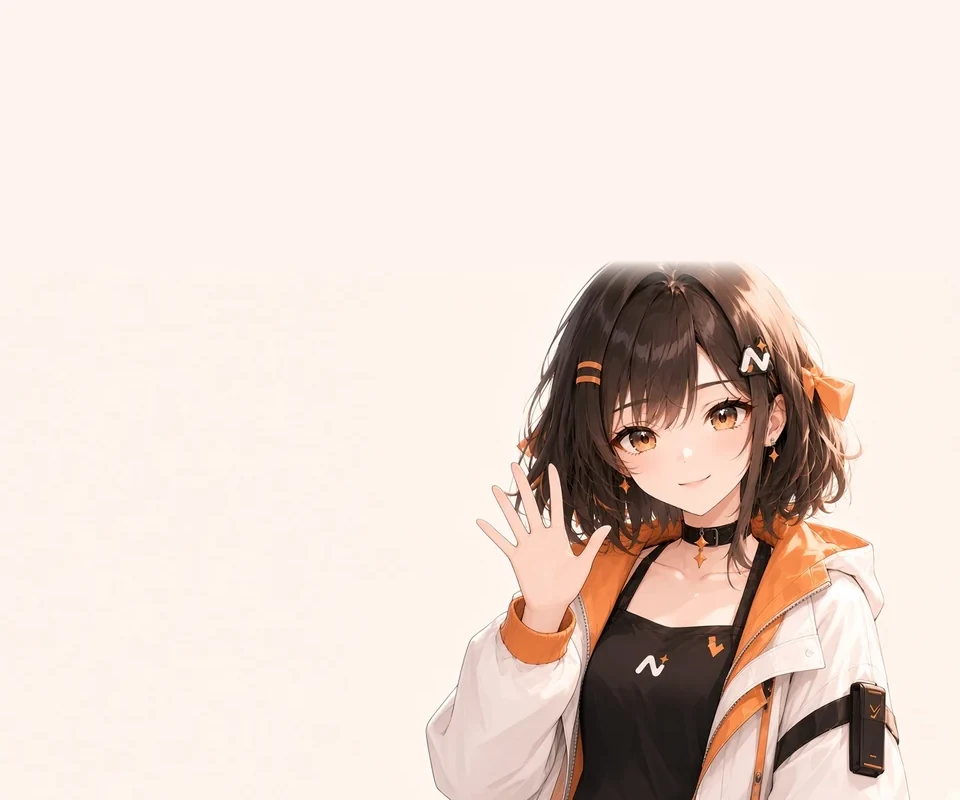
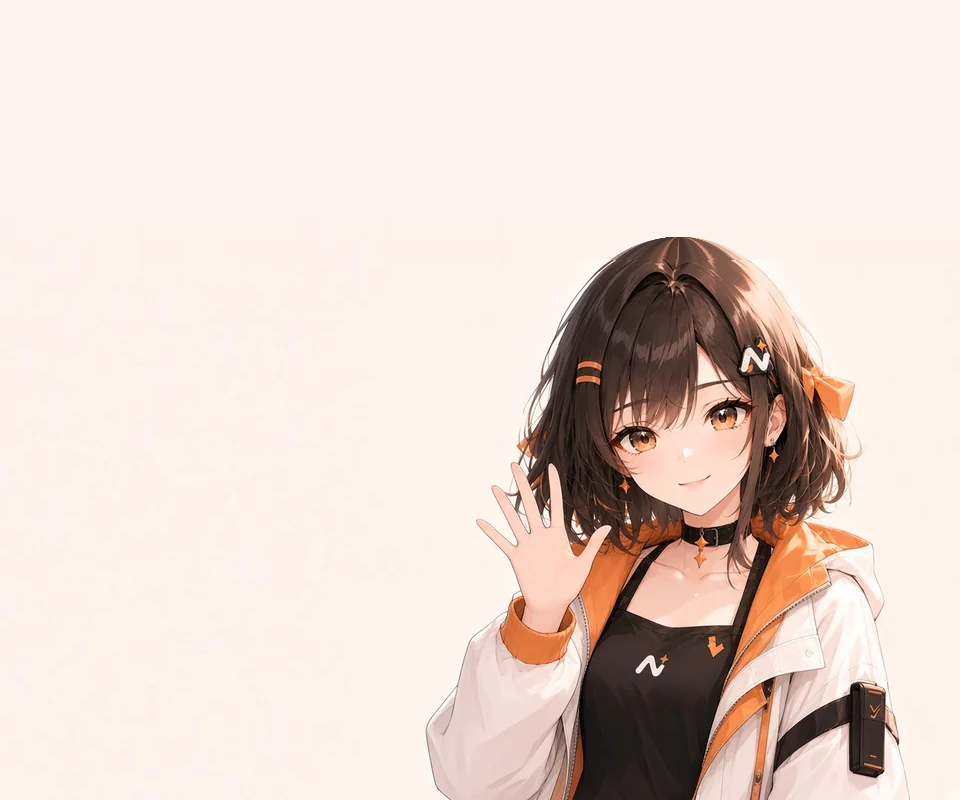
fix(ai-chat): complete clipped hair crown in onboarding art

Changed region(s): [[0.625, 0.2812, 0.7812, 0.375]]

diff --git a/packages/ai-chat/src/components/Onboarding/index.module.css b/packages/ai-chat/src/components/Onboarding/index.module.css
@@ -345,7 +345,7 @@
 }
 
 /* 背景插画：按卡片高度缩放，让人物头顶贴近卡片上沿（不留大片空白）；底部对齐。
-   应用内 webp 在原图上方用纯背景色补了 260px 画布（960×800，原图占下方 67.5%、顶边 36px 渐隐），
+   应用内 webp 在原图上方用纯背景色补了 260px 画布（960×800，原图占下方 67.5%，原图被画幅切掉的头顶已在补出的画布里补全），
    图高取卡片高的 128%，原图顶边约落在卡片高 13% 处；横向按每步原图里手/道具最靠左的位置
    （--onb-art-l，占图宽比例）对齐到卡片 52% 处（伸进左侧内容区右缘的渐变里，被淡化），右侧多出的部分裁掉 */
 .cardArt {

diff --git a/CREDITS.md b/CREDITS.md
@@ -8,7 +8,7 @@
 
 - **Brand board, mascot artwork (2D pseudo-3D layered rig `sprite/nomi`, body cut from the owner's half-body illustration, head from the owner's front-facing HD head image), logo concept** — owner-provided, AI-generated, licensed by project owner (Cookieboty) for use in this repository under the MIT licence.
 - **Hand / forearm pieces** (`sprite/nomi/layers/hands/`) — AI-generated, non-brand art (a neutral forearm cuff and hand in nine shapes: wave, fist, thumbs-up, point, rest, peace, plus prayer / OK / hand-on-chest), cut out and colour-matched to the master by Nomi-ai contributors; licensed by the project owner under the MIT licence. They are the only AI-generated pixels added to the rig after the brand artwork was fixed; no brand part (hair, hairclips, bow, earring, choker, jacket, logo, tag) is generated or redrawn — see [docs/BRAND.md](docs/BRAND.md#9-品牌锁).
-- **Onboarding illustrations** (`packages/ai-chat/src/components/Onboarding/art/*.webp`: welcome, profile, provider, privacy) — AI-generated scene art requested by the project owner (Cookieboty) for the first-run guide and licensed by the project owner under the MIT licence. Updated in v2.0.4: welcome / profile / provider were regenerated using the official reference art (`docs/brand/reference/nomi-closeup.png`, `nomi-clean-halfbody.jpg`) as the character reference so Nomi's face, hair and accessories stay consistent across all steps. The hands are shown purely through per-step CSS sizing and bottom alignment, with no redraw; the app webps only add 260px of plain background canvas above each image (top 36px faded), and nothing is cropped. A dedicated privacy illustration (Nomi holding a glowing lock shield) was generated for step 4 using the welcome / profile / provider art as reference. They are decorative only and are **not** brand-lock master art; the rig and brand parts are unchanged — see [docs/BRAND.md](docs/BRAND.md#9-品牌锁).
+- **Onboarding illustrations** (`packages/ai-chat/src/components/Onboarding/art/*.webp`: welcome, profile, provider, privacy) — AI-generated scene art requested by the project owner (Cookieboty) for the first-run guide and licensed by the project owner under the MIT licence. Updated in v2.0.4: welcome / profile / provider were regenerated using the official reference art (`docs/brand/reference/nomi-closeup.png`, `nomi-clean-halfbody.jpg`) as the character reference so Nomi's face, hair and accessories stay consistent across all steps. The hands are shown purely through per-step CSS sizing and bottom alignment, with no redraw. Because the original art clips the top of Nomi's hair at the frame edge, the app webps (960×800, lossless) add 260px of plain background above each image and extend only the missing hair crown (≈11–26px) by deterministically projecting the original top-row hair pixels onto a contour-matched dome; every pixel of the original image is kept byte-identical below the extension. A dedicated privacy illustration (Nomi holding a glowing lock shield) was generated for step 4 using the welcome / profile / provider art as reference. They are decorative only and are **not** brand-lock master art; the rig and brand parts are unchanged — see [docs/BRAND.md](docs/BRAND.md#9-品牌锁).
 - **Vector logo / app icons / tray icons** (`docs/brand/*.svg`, `packages/electron/assets/`) — recreated as vectors from the brand board by Nomi-ai contributors; same terms.
 
 ## Code references

diff --git a/.changeset/onboarding-art-consistent-face.md b/.changeset/onboarding-art-consistent-face.md
@@ -2,4 +2,4 @@
 '@nomi-ai/ai-chat': patch
 ---
 
-Onboarding 配图恢复为统一脸型的半身原图，仅通过每步单独的缩放与底部对齐露出手部；新增第 4 步「隐私」配图（持锁盾）。
+Onboarding 配图恢复为统一脸型的半身原图，按步骤缩放对齐露出手部；补全原图被画幅切掉的头顶（原图像素不变）；新增第 4 步「隐私」配图（持锁盾）。
